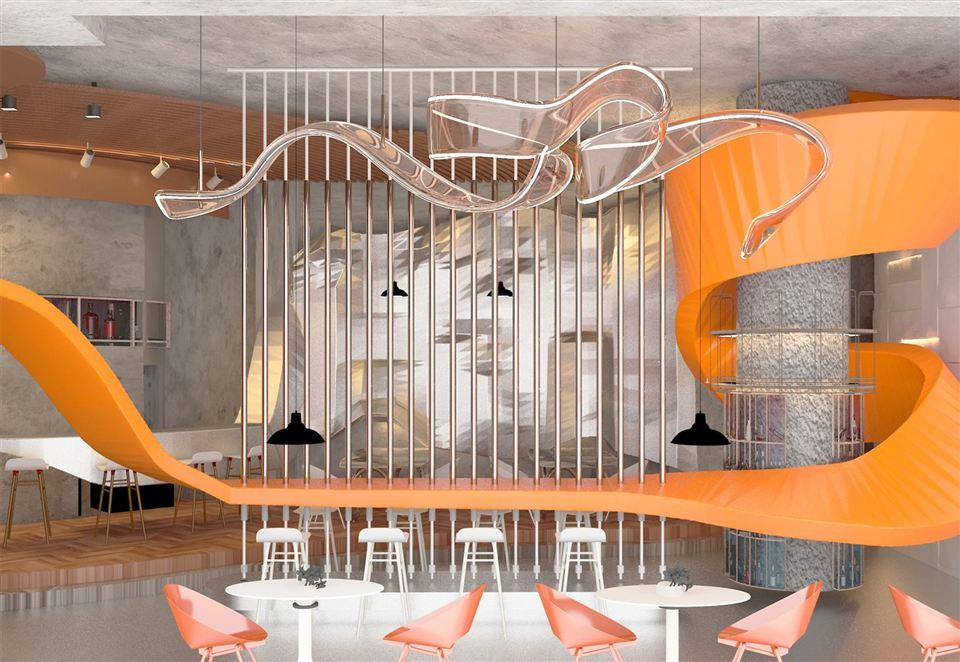
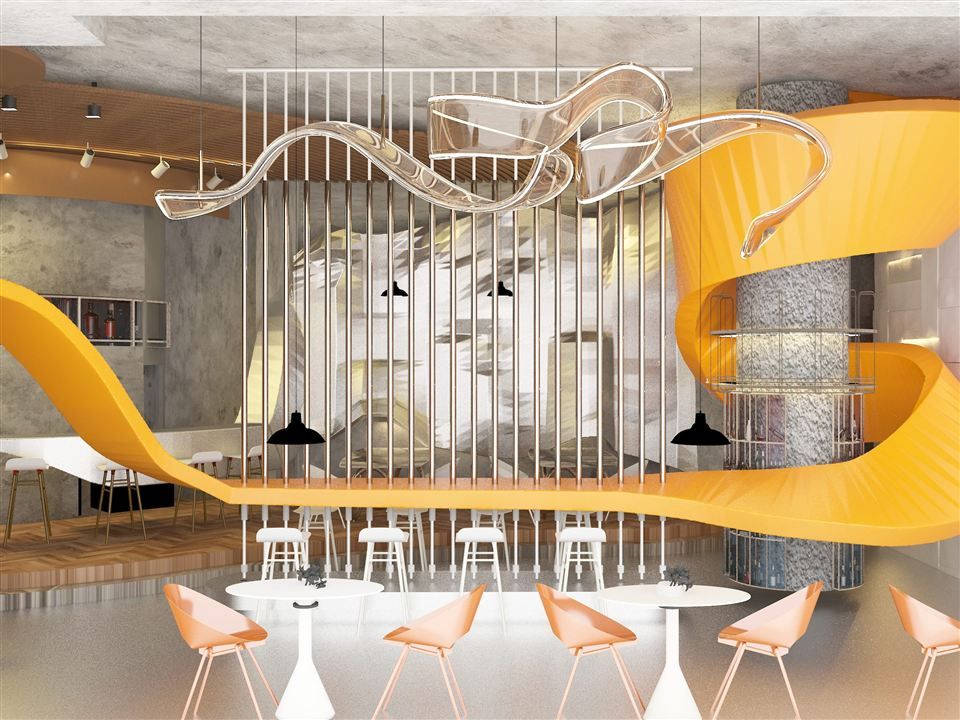
Restaurant uses the final renders; D1 WORK filters get ALL
- Restaurant (D1, D2): the five final renders (compressed into final renders/press) replace the older renders 123 / 图层 14 / 图层 16; the floor plan stays. Order: art installation (cover) -> plan -> entrance -> outdoor -> indoor dining -> bar. build-assets.ps1 gains 'also' (extra source folders).

- D1 WORK: an ALL chip leads the tag filters, on by default; picking it or re-pressing the active tag shows every work.

diff --git a/media.js b/media.js
@@ -251,9 +251,11 @@ const MEDIA = {
     { src: 'assets/work/nuclear-tide/05.jpg', w: 3840, h: 2160 },
   ],
   'restaurant': [
-    { src: 'assets/work/restaurant/01.jpg', w: 1465, h: 1010 },
+    { src: 'assets/work/restaurant/01.jpg', w: 2400, h: 1800 },
     { src: 'assets/work/restaurant/02.jpg', w: 2400, h: 943 },
-    { src: 'assets/work/restaurant/03.jpg', w: 1615, h: 1089 },
-    { src: 'assets/work/restaurant/04.jpg', w: 1414, h: 967 },
+    { src: 'assets/work/restaurant/03.jpg', w: 2400, h: 1800 },
+    { src: 'assets/work/restaurant/04.jpg', w: 2400, h: 1800 },
+    { src: 'assets/work/restaurant/05.jpg', w: 2400, h: 1800 },
+    { src: 'assets/work/restaurant/06.jpg', w: 2400, h: 1800 },
   ],
 };

diff --git a/prompt/requirements.md b/prompt/requirements.md
@@ -113,3 +113,4 @@
 | `16be6b9` | Planting Pen 草图 ↔ 渲染图互换，删掉方盒草图和 CLOSED FORM |
 | `842bbcf` | 用我的文本描述更新作品名、副标题和说明；图集按草图 → 场景 → 小物件 → 周边排序；新增 2023 年的 Restaurant；NEXT WORK 不触碰时不透明度 80%；WORK 卡片小图由 `D1/tools/thumbs.ps1` 生成 |
 | `21d1d70` | 修复返回 WORK 后再点作品卡住（预览服务器并行处理）；标签改为来自描述的类别，VIDEO 自动添加 |
+| （本次） | Restaurant 换成 final renders（封面为艺术装置） |
